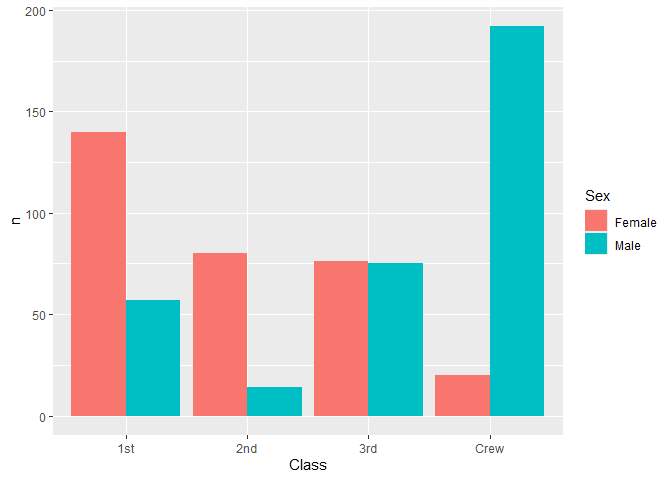
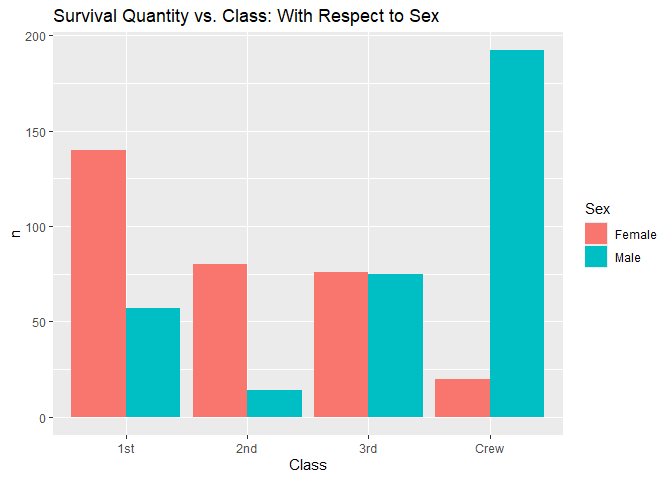
Added more commentary on titanic after looking into more challenge presentation data.

diff --git a/challenges/c01-titanic-assignment.md b/challenges/c01-titanic-assignment.md
@@ -29,6 +29,8 @@ Katherine Danielson
     *did* survive, along with aesthetics for `Class`, `Sex`, *and*
     `Age`. Document your observations
     below.](#q5-create-a-plot-showing-the-group-proportion-of-occupants-who-did-survive-along-with-aesthetics-for-class-sex-and-age-document-your-observations-below)
+  - [Work and Manipulations for
+    Presentation](#work-and-manipulations-for-presentation)
 - [Notes](#notes)
 
 *Purpose*: Most datasets have at least a few variables. Part of our task
@@ -176,7 +178,8 @@ df_titanic %>% summarize(total = sum(n))
 df_titanic %>% 
   filter (Survived == "Yes") %>%       #filter by survived
   ggplot(aes(Class, n, fill = Sex)) +  #assigns variables
-  geom_col(position = "dodge")         #unstacks male and female data
+  geom_col(position = "dodge")  +      #unstacks male and female data
+  labs(title = "Survival Quantity vs. Class: With Respect to Sex ")
 ```
 
 ![](c01-titanic-assignment_files/figure-gfm/q3-task-1.png)<!-- -->
@@ -261,7 +264,8 @@ df_prop
 df_prop %>% 
   filter(Survived == "Yes") %>% 
   ggplot(aes(Class, Prop, fill = Sex)) +
-  geom_col(position = "dodge")
+  geom_col(position = "dodge", color = "black") +  #black outlines and shows adults and children overlayed
+  labs(title = "Proportion Survived vs. Class")
 ```
 
     ## Warning: Removed 2 rows containing missing values or values outside the scale range
@@ -276,21 +280,28 @@ df_prop %>%
   compare who did survive to who didn’t survive within the sex and
   class.
 - From this, we can see that it looks like 100% of males and females in
-  both 1st and 2nd class survived (However, as we will see later in
-  question 5, this is not actually the case). In third class, less than
-  50% of females in this class survived, and roughly only 25% of males
-  survived. In third class, there was a lower proportion of surviving
-  individuals. Due to a lack of conceptualization in total numbers of
-  individuals, you cannot compare the proportions between classes and
-  know for sure if less females survived in third class than in crew
-  (which had a much higher survival rate) as the total population of
-  females in third class could be much larger than that in crew. This is
-  much more visible in the prior graph where it shows the total number
-  of individuals who survived because you can compare the survival
-  between classes. However, the first graph does not actually show the
-  proportion of individuals who survived. It would be ideal to combine
-  these graphs to see what proportion of the original whole survived in
-  relation to the original numbers.
+  both 1st and 2nd class survived (This may seem highly surprising at
+  first; however, as we will see later in question 5, this is not
+  actually the case as the data of adult and child is being overlayed.
+  This overlapping of proportion of survival in both child and adult
+  makes the proportions appear much higher. By having the feature col =
+  “black” in the geom_col code, we can see where exactly the bars
+  overlap. Note that there is no overlap for crew as there were no
+  children in crew, and there appears no overlap for third class females
+  as the female child and female adult survival is about the same.). In
+  third class, less than 50% of females in this class survived, and
+  roughly only 25% of males survived. In third class, there was a lower
+  proportion of surviving individuals. Due to a lack of
+  conceptualization in total numbers of individuals, you cannot compare
+  the proportions between classes and know for sure if less females
+  survived in third class than in crew (which had a much higher survival
+  rate) as the total population of females in third class could be much
+  larger than that in crew. This is much more visible in the prior graph
+  where it shows the total number of individuals who survived because
+  you can compare the survival between classes. However, the first graph
+  does not actually show the proportion of individuals who survived. It
+  would be ideal to combine these graphs to see what proportion of the
+  original whole survived in relation to the original numbers.
 - Is there anything *fishy* going on in your plot?
   - This graph truly highlights the ratio of male-to-female survival and
     a bit of class-to-class survival. When looking at both third class
@@ -316,7 +327,8 @@ df_prop %>%
   filter(Survived == "Yes") %>% 
   ggplot(aes(Class, Prop, fill = Sex)) +
   geom_col(position = "dodge") +
-  facet_grid(~Age)
+  facet_grid(~Age) +
+  labs(title = "Proportion Survived vs. Class, Sex and Age")
 ```
 
     ## Warning: Removed 2 rows containing missing values or values outside the scale range
@@ -345,9 +357,10 @@ df_prop %>%
   could possibly due to the fact that children in both of those classes
   had a 100% survival rate – these proportions, when combined with
   adults (who had very low survival rates), if not manipulated correctly
-  could lead to skewing in the data set. (I wonder if it somehow
-  “stacked” the proportions of age as well which led to skewing–this
-  seems unlikely though as the proportions do not exceed 1.0)
+  could lead to skewing in the data set. By separating the variable
+  “Age” it unoverlaps the two graphs and makes the proportions appear
+  correctly. (See commentary on coloring and overlapping from Q4 for
+  more detail.)
 - If you saw something *fishy* in q4 above, use your new plot to explain
   the fishy-ness.
   - My hypothesis about there being a social and cultural bias of
@@ -362,6 +375,147 @@ df_prop %>%
     in first class survived than those in second and than those in
     third. This is likely because those of higher status and class are
     protected in society.
+
+## Work and Manipulations for Presentation
+
+Disregard for challenge grading. These graphs and manipulations are only
+beneficial for the challenge presentation.
+
+``` r
+df_titanic %>%
+  filter(Age == "Child") %>%
+  summarize(total_kids = sum(n))
+```
+
+    ## # A tibble: 1 × 1
+    ##   total_kids
+    ##        <dbl>
+    ## 1        109
+
+``` r
+df_titanic %>%
+  filter(Age == "Child", Survived == "Yes") %>%
+  summarize(survived_kids = sum(n))
+```
+
+    ## # A tibble: 1 × 1
+    ##   survived_kids
+    ##           <dbl>
+    ## 1            57
+
+``` r
+df_prop2 <-
+  df_titanic %>%
+  select(Age, Survived, n)%>%
+  group_by(Age) %>%
+  mutate(
+    Total2 = sum(n),
+    Proportion = n / Total2
+  ) %>%
+  ungroup()
+df_prop2
+```
+
+    ## # A tibble: 32 × 5
+    ##    Age   Survived     n Total2 Proportion
+    ##    <chr> <chr>    <dbl>  <dbl>      <dbl>
+    ##  1 Child No           0    109     0     
+    ##  2 Child No           0    109     0     
+    ##  3 Child No          35    109     0.321 
+    ##  4 Child No           0    109     0     
+    ##  5 Child No           0    109     0     
+    ##  6 Child No           0    109     0     
+    ##  7 Child No          17    109     0.156 
+    ##  8 Child No           0    109     0     
+    ##  9 Adult No         118   2092     0.0564
+    ## 10 Adult No         154   2092     0.0736
+    ## # ℹ 22 more rows
+
+``` r
+df_prop2 %>% 
+  filter(Survived == "Yes") %>%
+  ggplot(aes(Age, Proportion)) +
+  geom_col() +
+  labs(title = "Proportion vs. Age")
+```
+
+![](c01-titanic-assignment_files/figure-gfm/unnamed-chunk-3-1.png)<!-- -->
+
+``` r
+df_prop3 <-
+  df_titanic %>%
+  select(Class, Survived, n)%>%
+  group_by(Class) %>%
+  mutate(
+    Total3 = sum(n),
+    Proportion = n / Total3
+  ) %>%
+  ungroup()
+df_prop3
+```
+
+    ## # A tibble: 32 × 5
+    ##    Class Survived     n Total3 Proportion
+    ##    <chr> <chr>    <dbl>  <dbl>      <dbl>
+    ##  1 1st   No           0    325     0     
+    ##  2 2nd   No           0    285     0     
+    ##  3 3rd   No          35    706     0.0496
+    ##  4 Crew  No           0    885     0     
+    ##  5 1st   No           0    325     0     
+    ##  6 2nd   No           0    285     0     
+    ##  7 3rd   No          17    706     0.0241
+    ##  8 Crew  No           0    885     0     
+    ##  9 1st   No         118    325     0.363 
+    ## 10 2nd   No         154    285     0.540 
+    ## # ℹ 22 more rows
+
+``` r
+df_prop3 %>% 
+  filter(Survived == "Yes") %>%
+  ggplot(aes(Class, Proportion)) +
+  geom_col() +
+  labs(title = "Proportion Survived vs. Class")
+```
+
+![](c01-titanic-assignment_files/figure-gfm/unnamed-chunk-5-1.png)<!-- -->
+
+``` r
+df_prop4 <-
+  df_titanic %>%
+  select(Sex, Survived, n)%>%
+  group_by(Sex) %>%
+  mutate(
+    Total4 = sum(n),
+    Proportion = n / Total4
+  ) %>%
+  ungroup()
+df_prop4
+```
+
+    ## # A tibble: 32 × 5
+    ##    Sex    Survived     n Total4 Proportion
+    ##    <chr>  <chr>    <dbl>  <dbl>      <dbl>
+    ##  1 Male   No           0   1731     0     
+    ##  2 Male   No           0   1731     0     
+    ##  3 Male   No          35   1731     0.0202
+    ##  4 Male   No           0   1731     0     
+    ##  5 Female No           0    470     0     
+    ##  6 Female No           0    470     0     
+    ##  7 Female No          17    470     0.0362
+    ##  8 Female No           0    470     0     
+    ##  9 Male   No         118   1731     0.0682
+    ## 10 Male   No         154   1731     0.0890
+    ## # ℹ 22 more rows
+
+``` r
+df_prop4 %>% 
+  filter(Survived == "Yes") %>%
+  ggplot(aes(Sex, Proportion)) +
+  geom_col() +
+  labs(title = "Proportion Survived vs. Sex")
+```
+
+![](c01-titanic-assignment_files/figure-gfm/unnamed-chunk-7-1.png)<!-- -->
 
 # Notes
 
